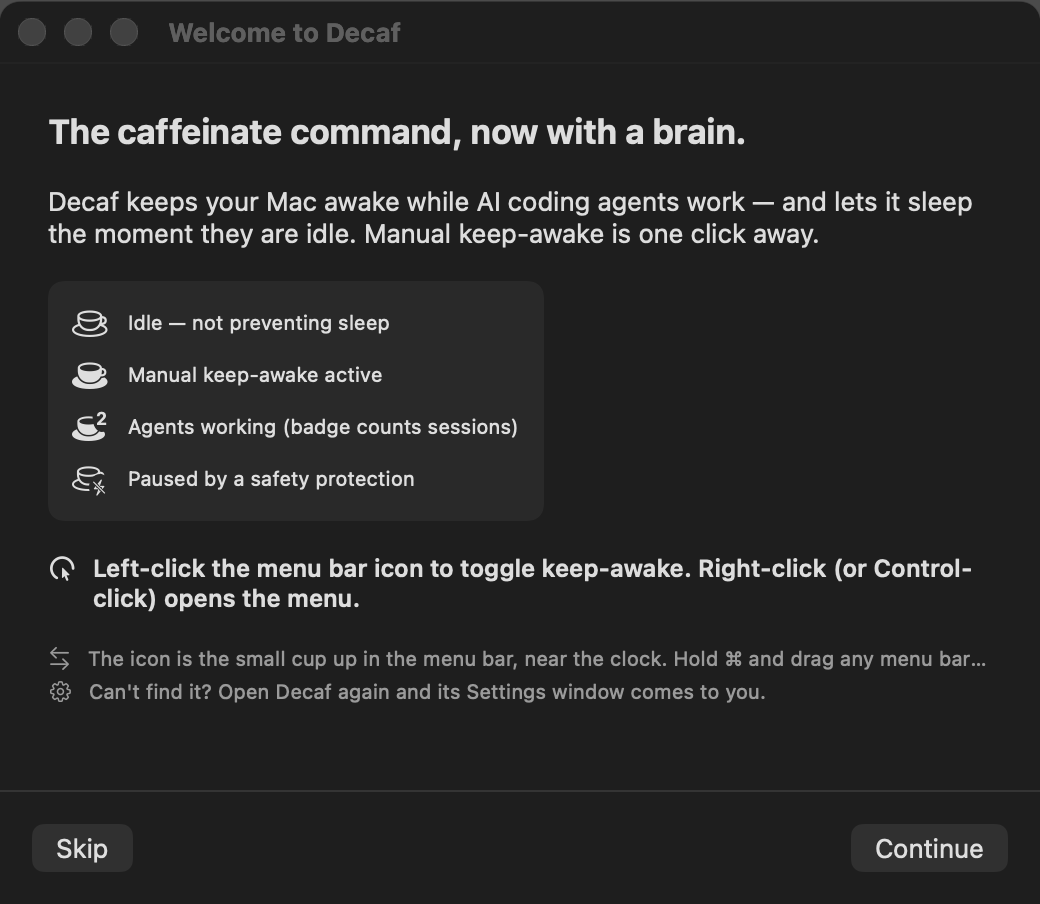
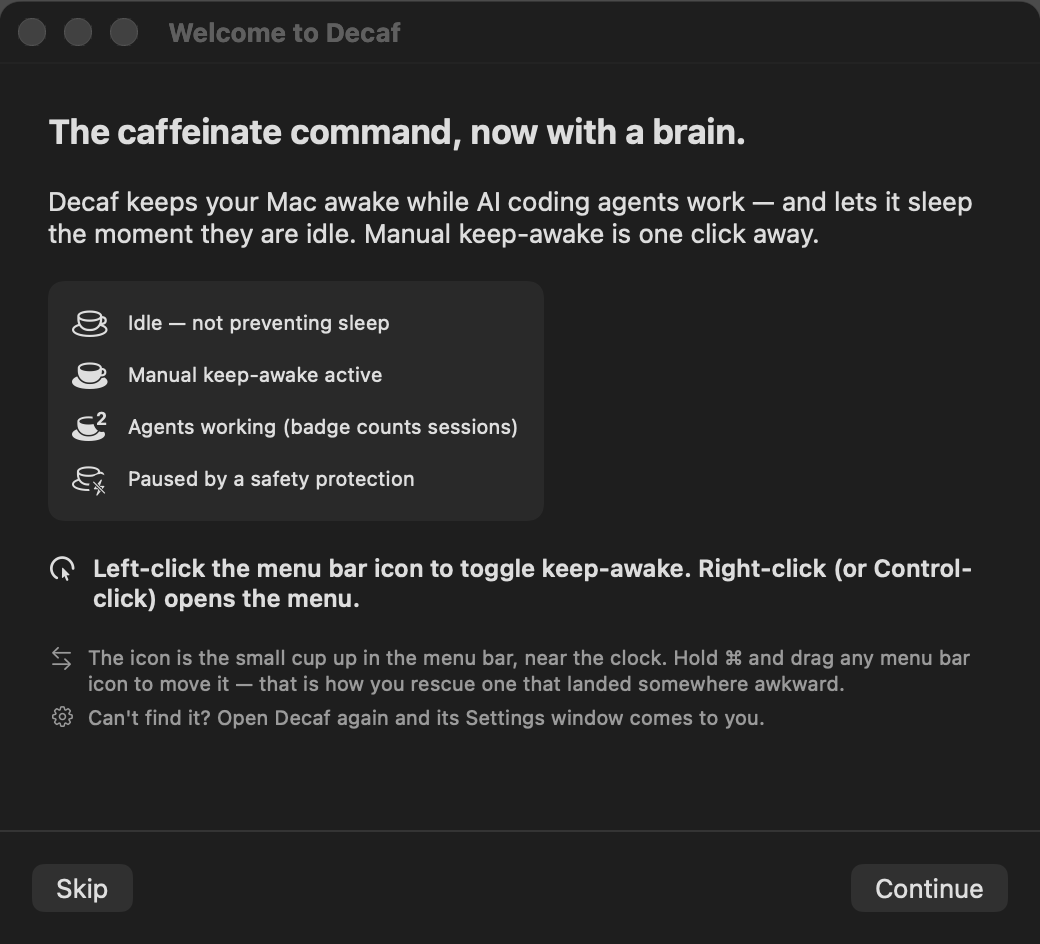
fix(app): make the onboarding hints wrap instead of truncate
A Label's title truncates rather than wrapping, and no modifier changes that:
.fixedSize on the label, on its stack, and a taller window were each tried and
each left the line ellipsised. Composing the row by hand gives the Text a real
width to wrap inside.

The line that was being cut is the one telling users they can Cmd-drag a menu
bar icon to move it — the escape hatch for an icon that landed behind the notch,
which is exactly how the author lost it on first launch.

Window height moves to a named constant: it is set twice, on the NSWindow and on
the SwiftUI root, and the two drifting apart is how a window ends up shorter
than its own content.

diff --git a/docs/assets/render/Sources/DecafRender/main.swift b/docs/assets/render/Sources/DecafRender/main.swift
@@ -15,9 +15,14 @@ import DecafCore
 
 // MARK: - Output
 
-let outputDirectory = CommandLine.arguments.count > 1
-    ? CommandLine.arguments[1]
-    : FileManager.default.currentDirectoryPath
+let arguments = CommandLine.arguments.dropFirst()
+/// `--measure` prints the sizing numbers `SettingsView` is built on and writes
+/// no images. It is how the window height in SettingsView.swift is derived, and
+/// re-running it is how the next person checks that number instead of trusting
+/// the comment next to it.
+let measureOnly = arguments.contains("--measure")
+let outputDirectory = arguments.first(where: { !$0.hasPrefix("--") })
+    ?? FileManager.default.currentDirectoryPath
 
 // MARK: - Offscreen renderer
 
@@ -216,6 +221,61 @@ enum Renderer {
     }
 }
 
+// MARK: - Measurement
+
+/// The numbers `SettingsView.windowHeight` is derived from.
+///
+/// Everything here is measured, never estimated. A grouped `Form` resolves its
+/// platform metrics from the window it is hosted in, so each page is measured
+/// inside a real offscreen window — the same one the renders use — rather than
+/// from a bare `NSHostingView`, which reports a different figure.
+enum Measure {
+    /// What a view asks for at `width` when nothing pins its height.
+    @MainActor
+    static func naturalHeight<V: View>(_ view: V, width: CGFloat) -> CGFloat {
+        let window = NSWindow(
+            contentRect: CGRect(x: 0, y: 0, width: width, height: 2000),
+            styleMask: [.borderless], backing: .buffered, defer: false
+        )
+        window.appearance = NSAppearance(named: .aqua)
+        window.isReleasedWhenClosed = false
+        let hosting = NSHostingView(rootView: view)
+        hosting.frame = CGRect(x: 0, y: 0, width: width, height: 2000)
+        window.contentView = hosting
+        window.makeKey()
+        Renderer.settle(0.6)
+        hosting.layoutSubtreeIfNeeded()
+        return ceil(hosting.fittingSize.height)
+    }
+
+    /// The assembled settings window with `tab` selected and nothing pinning
+    /// its height: tab strip, TabView insets and the page, all at once.
+    ///
+    /// This, and not the page on its own, is the number the window has to
+    /// clear. A page inside a TabView is laid out narrower than the window, so
+    /// measuring `AgentsSettingsTab` alone at 620pt reports a page that wraps
+    /// less than the real one and comes out short. That is exactly how the
+    /// window ended up 25pt too small.
+    @MainActor
+    static func tabHeight(
+        _ tab: SettingsTab,
+        settings: UISettings,
+        status: ClaudeCodeStatus,
+        width: CGFloat
+    ) -> CGFloat {
+        let router = SettingsTabRouter()
+        router.selectedTab = tab
+        return naturalHeight(
+            SettingsTabs(
+                settings: settings,
+                integrations: AgentIntegrationsModel(provider: StagedIntegrationsProvider(status)),
+                tabRouter: router
+            ),
+            width: width
+        )
+    }
+}
+
 // MARK: - Staged inputs
 
 /// A UserDefaults suite that exists only for this process, so every render shows
@@ -300,6 +360,65 @@ MainActor.assumeIsolated {
     // each tab's REAL content view is rendered on its own, at the width the
     // window gives it and at the height the page itself asks for.
     let settingsWidth: CGFloat = 620
+
+    if measureOnly {
+        // Agents is measured in all three hero states: the hero's status line
+        // is the one row on the page whose height varies with state, and the
+        // window has to clear the tallest of them.
+        let cases: [(String, SettingsTab, ClaudeCodeStatus)] = [
+            ("general", .general, hooksInstalled),
+            ("agents (hooks installed)", .agents, hooksInstalled),
+            ("agents (file activity)", .agents, fileActivity),
+            ("agents (needs repair)", .agents, needsRepair),
+            ("safety", .safety, hooksInstalled),
+        ]
+        func row(_ label: String, _ value: CGFloat) {
+            print("  \(label.padding(toLength: 26, withPad: " ", startingAt: 0))\(Int(value)) pt")
+        }
+        print("SettingsTabs natural height at \(Int(settingsWidth))pt wide")
+        print("(tab strip and TabView insets included — this is what the window must clear):")
+        var tallest: CGFloat = 0
+        for (label, tab, status) in cases {
+            let height = Measure.tabHeight(tab, settings: settings, status: status, width: settingsWidth)
+            row(label, height)
+            tallest = max(tallest, height)
+        }
+        row("tallest", tallest)
+        row("shipping windowHeight", SettingsView.windowHeight)
+        print(SettingsView.windowHeight >= tallest
+              ? "  OK — the window clears every page."
+              : "  CLIPPED — the window is \(Int(tallest - SettingsView.windowHeight))pt short.")
+
+        // The numbers say it fits; these say what it looks like. The assembled
+        // SettingsView at its real frame, one image per tab, so the bottom of
+        // the last card can be looked at instead of taken on trust.
+        //
+        // Not committed and not in the README: the tab strip is AppKit vibrancy
+        // and captures as a blank band offscreen (see CAPTURE.md §3), so these
+        // are a measurement instrument, not a picture of the product. Write
+        // them somewhere scratch.
+        print("Assembled window, \(Int(settingsWidth))x\(Int(SettingsView.windowHeight))pt:")
+        for tab in [SettingsTab.general, .agents, .safety] {
+            let router = SettingsTabRouter()
+            router.selectedTab = tab
+            let name = tab == .general ? "general" : (tab == .agents ? "agents" : "safety")
+            Renderer.render(
+                SettingsView(
+                    settings: settings,
+                    integrations: AgentIntegrationsModel(
+                        provider: StagedIntegrationsProvider(hooksInstalled)
+                    ),
+                    tabRouter: router
+                ),
+                size: CGSize(width: settingsWidth, height: SettingsView.windowHeight),
+                dark: false,
+                to: "measure-window-\(name).png"
+            )
+        }
+        renderDefaults.removePersistentDomain(forName: renderSuiteName)
+        print("done")
+        exit(0)
+    }
 
     for (dark, suffix) in [(false, "light"), (true, "dark")] {
         print("--- \(suffix) ---")

diff --git a/App/SettingsView.swift b/App/SettingsView.swift
@@ -57,22 +57,55 @@ struct SettingsView: View {
     /// Wide enough for a grouped form's label column plus its trailing control
     /// without wrapping the footers to four lines; System Settings panes sit in
     /// the same neighborhood.
-    private static let windowWidth: CGFloat = 620
+    static let windowWidth: CGFloat = 620
+
     /// Fixed, not a floor: grouped forms scroll internally, so a stable window
-    /// beats one that jumps every time you switch tabs. Measured — not guessed —
-    /// by rendering every state unconstrained and scanning for the last inked
-    /// row in each. Re-measured when General grew its display row: General is
-    /// now the tallest page at 385pt, ahead of Safety at 350 and the Agents
-    /// error state at 316. 445 clears General with a normal bottom margin and
-    /// room for a footer that wraps one line further in another locale.
+    /// beats one that jumps every time you switch tabs. A tabbed window is
+    /// sized by its tallest page, so the surplus lands as air on the shorter
+    /// two — the price of a window that does not jump when you switch tabs.
     ///
-    /// It lands near the 470 this window carried two passes ago, so it is worth
-    /// saying why that is not a walk-back: 470 was wrong then because it was
-    /// measured against copy that had since been cut, leaving General with
-    /// roughly 350pt of nothing in it. General now genuinely fills this. A
-    /// tabbed window is sized by its tallest page, so the cost lands as air on
-    /// Agents — the price of a window that does not jump when you switch tabs.
-    private static let windowHeight: CGFloat = 445
+    /// HOW THIS NUMBER WAS MEASURED, and how to redo it. Do not edit it by eye,
+    /// and do not trust this paragraph over the command:
+    ///
+    ///     cd docs/assets/render && ./build.sh
+    ///     ./.build/release/DecafRender --measure "$SOMEWHERE"
+    ///
+    /// That hosts `SettingsTabs` — this file's own TabView, with no frame on
+    /// it — in an offscreen window at `windowWidth`, selects each tab in turn,
+    /// and reads `fittingSize.height`. Each figure therefore already includes
+    /// the tab strip and the insets the TabView puts around the page: there is
+    /// no "about 30pt of tab strip" subtraction left to get wrong. It prints
+    /// the numbers, says whether this window clears them, and renders the
+    /// assembled window at its shipping frame into `$SOMEWHERE` so the answer
+    /// can be looked at rather than believed. `SettingsSizing` records the
+    /// result; `SettingsWindowSizingTests` re-measures it on every test run.
+    ///
+    /// Why the previous value (445) was too small, since the same mistake is
+    /// easy to repeat. It was reasoned about rather than measured: three
+    /// page-only heights, minus an estimated tab strip. The page-only heights
+    /// were then left to rot — the comment still cited "Agents 316", a figure
+    /// from before the `Auto Keep Awake for Agents` section existed, while the
+    /// page had grown to 412. And even against today's real numbers the sum
+    /// only just worked: 445 less a ~30pt strip leaves 415pt for a 412pt page,
+    /// and `fittingSize` under-reports a grouped Form's last card by a few
+    /// points (the renderer adds 8pt of slack for exactly this). So the Agents
+    /// page opened with the bottom edge of "Remove all integrations" shaved off.
+    /// Measure the assembled window, not the parts, and leave real margin.
+    static let windowHeight: CGFloat = SettingsSizing.windowHeight
+
+    var body: some View {
+        SettingsTabs(settings: settings, integrations: integrations, tabRouter: tabRouter)
+            .frame(width: Self.windowWidth, height: Self.windowHeight)
+    }
+}
+
+/// The three tabs with no frame around them, so their assembled natural height
+/// can be measured. `SettingsView` is this plus the window frame; nothing else
+/// should build a `TabView` of these pages.
+struct SettingsTabs: View {
+    @ObservedObject var settings: UISettings
+    @ObservedObject var integrations: AgentIntegrationsModel
+    @ObservedObject var tabRouter: SettingsTabRouter
 
     var body: some View {
         TabView(selection: $tabRouter.selectedTab) {
@@ -86,8 +119,35 @@ struct SettingsView: View {
                 .tabItem { Label("Safety", systemImage: "bolt.shield") }
                 .tag(SettingsTab.safety)
         }
-        .frame(width: Self.windowWidth, height: Self.windowHeight)
     }
+}
+
+/// The measured facts the settings window is sized from, in one place so the
+/// renderer, the tests and the window itself cannot disagree about them.
+///
+/// These are records of a measurement, not preferences. Re-measure with
+/// `DecafRender --measure` (see `SettingsView.windowHeight`); AppTests'
+/// `SettingsWindowSizingTests` fails when the pages outgrow them.
+enum SettingsSizing {
+    /// Natural height of each tab, tab strip and TabView insets included,
+    /// measured on 2026-08-07. Agents is measured in all three hero states; the
+    /// hero's status line is the one row whose height varies with state, and
+    /// all three came out the same.
+    static let measuredTabHeights: [SettingsTab: CGFloat] = [
+        .general: 409,
+        .agents: 442,
+        .safety: 387,
+    ]
+
+    /// The tallest page, plus a margin.
+    ///
+    /// The margin is not padding for its own sake. Two known reasons the true
+    /// requirement runs above the measurement: `fittingSize` under-reports a
+    /// grouped Form's last card by a few points, and a footer that wraps one
+    /// line further in another locale costs about 15pt. 16 covers both.
+    static let slack: CGFloat = 16
+
+    static let windowHeight: CGFloat = (measuredTabHeights.values.max() ?? 0) + slack
 }
 
 // MARK: - General

diff --git a/App/OnboardingWindow.swift b/App/OnboardingWindow.swift
@@ -53,7 +53,8 @@ final class OnboardingWindowController: NSWindowController, NSWindowDelegate {
         let window = NSWindow(contentViewController: hosting)
         window.title = "Welcome to Decaf"
         window.styleMask = [.titled, .closable]
-        window.setContentSize(NSSize(width: 520, height: 420))
+        window.setContentSize(NSSize(width: OnboardingSizing.width,
+                                     height: OnboardingSizing.height))
         window.collectionBehavior = [.fullScreenNone]
         window.center()
         super.init(window: window)
@@ -121,7 +122,7 @@ private struct OnboardingView: View {
             Divider()
             controls.padding(16)
         }
-        .frame(width: 520, height: 420)
+        .frame(width: OnboardingSizing.width, height: OnboardingSizing.height)
     }
 
     // MARK: Step 1 — what it is
@@ -154,18 +155,37 @@ private struct OnboardingView: View {
             // look, and the ⌘-drag nobody is ever told about. The second line
             // is the escape hatch, and it is the reason relaunching the app now
             // opens Settings instead of showing an alert.
+            // NOT `Label`. A Label's title truncates instead of wrapping, and no
+            // modifier fixes it — `.fixedSize(vertical:)` on the label, on the
+            // stack, and a taller window were each tried and each re-rendered
+            // byte-identically with the ⌘-drag line still ellipsised. Composing
+            // the row by hand gives the Text a real width to wrap inside, which
+            // is the only construction that actually works here.
             VStack(alignment: .leading, spacing: 4) {
-                Label(
-                    "The icon is the small cup up in the menu bar, near the clock. Hold \u{2318} and drag any menu bar icon to move it — that is how you rescue one that landed somewhere awkward.",
-                    systemImage: "arrow.left.arrow.right"
-                )
-                Label(
-                    "Can't find it? Open Decaf again and its Settings window comes to you.",
-                    systemImage: "gearshape"
-                )
+                wrappingHint("arrow.left.arrow.right",
+                             "The icon is the small cup up in the menu bar, near the clock. Hold \u{2318} and drag any menu bar icon to move it — that is how you rescue one that landed somewhere awkward.")
+                wrappingHint("gearshape",
+                             "Can't find it? Open Decaf again and its Settings window comes to you.")
             }
             .font(.caption)
             .foregroundStyle(.secondary)
+        }
+    }
+
+    /// An icon-and-text row whose text actually wraps.
+    ///
+    /// `Label` cannot do this: its title truncates to one line and stays that
+    /// way through `.fixedSize`, a taller window, or both. Laying the row out by
+    /// hand — icon in a fixed column, text taking the remaining width — gives
+    /// the `Text` a bounded width to wrap inside. `.top` alignment keeps the
+    /// icon beside the first line rather than centred against the paragraph.
+    private func wrappingHint(_ systemImage: String, _ text: String) -> some View {
+        HStack(alignment: .top, spacing: 6) {
+            Image(systemName: systemImage)
+                .frame(width: 14, alignment: .center)
+            Text(text)
+                .fixedSize(horizontal: false, vertical: true)
+                .frame(maxWidth: .infinity, alignment: .leading)
         }
     }
 
@@ -293,4 +313,23 @@ private struct OnboardingView: View {
         // writer, one place, whichever way the flow ends.
         finish()
     }
+}
+
+/// The onboarding window's fixed size, in one place because it is set twice —
+/// once on the NSWindow and once on the SwiftUI root — and the two silently
+/// disagreeing is how the window ends up shorter than its own content.
+///
+/// The height is measured, not guessed. Step 1 is the tallest step and its two
+/// caption lines wrap; at 420 the window was shorter than the content, so
+/// SwiftUI compressed the flexible children and both captions came back as one
+/// ellipsised line — including the ⌘-drag tip, which is the single line in the
+/// whole flow the user most needs. `.fixedSize` on those Labels does nothing on
+/// its own: a label cannot claim height a too-short window has not got. Both
+/// halves are required.
+///
+/// Re-measure with `docs/assets/render/`: `./build.sh && ./.build/release/DecafRender ..`
+/// run, and read the reported point size of `onboarding-step1-light.png`.
+enum OnboardingSizing {
+    static let width: CGFloat = 520
+    static let height: CGFloat = 440
 }

diff --git a/README.md b/README.md
@@ -617,9 +617,9 @@ And you are shown that, in full, before any of it happens — installing hooks i
 
 ## Settings
 
-Seven, and no more. Every one of them had to answer "who does the default hurt?"
+Six, and no more. Every one of them had to answer "who does the default hurt?"
 
-- **Keep this Mac awake** — while an agent is *working* (default), or while an agent is *running*. The second is the blunt instrument every competitor ships; it is here for people on AC who want zero risk, and the menu tells you honestly when your detection layer cannot actually deliver it.
+- **Auto keep awake for agents** — on by default. Turn it off and Decaf ignores coding agents entirely: any hold an agent started is released straight away, and from then on the Mac stays awake only while you keep it awake yourself. It is also in the menu, because that is where you are when you want it.
 - **Release grace period** — how long to keep holding after a turn ends. 1/2/3/5/10 minutes, default 3.
 - **Display while keeping awake** — the screen sleeps normally (default) or stays on. There is also a **Turn Off Display Now** action: the screen goes dark, the work keeps running.
 - **Battery threshold** — stop holding below this. Off, 10 %, 20 % or 30 %; default 20 %, resuming three points above the line you picked so a battery hovering at it does not flap.
